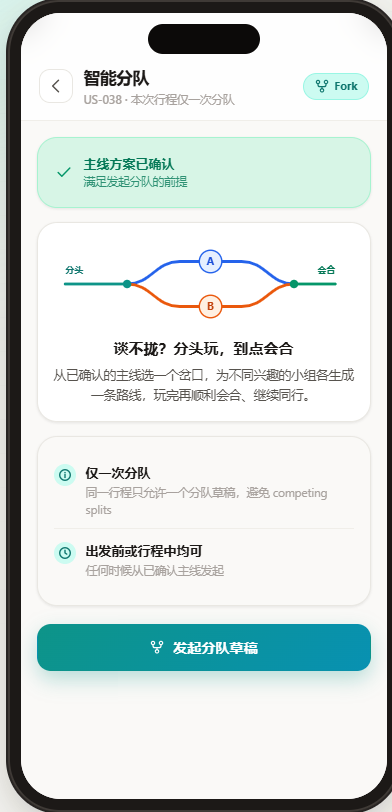
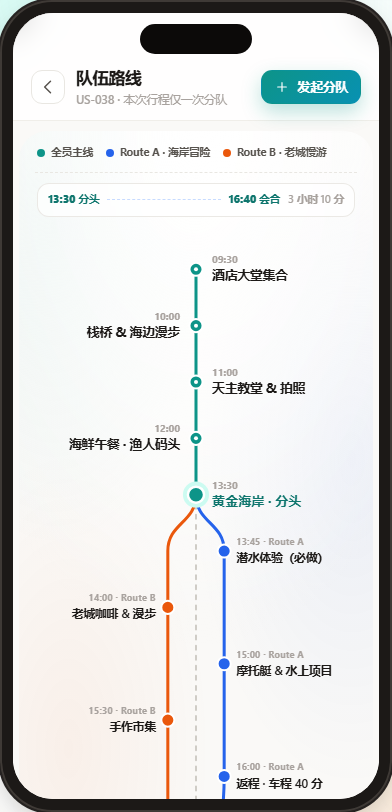
docs(ui): redesign split screen into team route graph

diff --git a/ui-design-reference/gogo-mvp-prototype.html b/ui-design-reference/gogo-mvp-prototype.html
@@ -215,6 +215,52 @@ body{font-family:var(--font);color:var(--ink);background:var(--bg);line-height:1
 .mini .mn{font-size:13px;font-weight:620}.mini .mm{font-size:11px;color:var(--ink-3);margin-top:1px}
 .mini.leg .mn{color:var(--ink-2);font-weight:560;font-style:italic}
 .route .rfoot{padding:10px 15px;border-top:1px solid var(--line-2);background:var(--surface-2);display:flex;align-items:center;gap:8px;font-size:11.5px;font-weight:600;color:var(--ink-2)}
+/* 队伍路线 · git 风格路线图 */
+.teamgraph{position:relative;z-index:0;padding:6px 8px 8px;margin:0 -2px}
+.teamgraph::before{content:"";position:absolute;inset:-6px -8px -14px;z-index:-1;pointer-events:none;border-radius:28px;background:
+  radial-gradient(110% 72% at 50% 0%,#fff 0%,rgba(255,255,255,.62) 40%,rgba(255,255,255,0) 74%),
+  radial-gradient(62% 46% at 10% 10%,rgba(13,148,136,.09),transparent 72%),
+  radial-gradient(62% 46% at 94% 34%,rgba(37,99,235,.07),transparent 74%),
+  radial-gradient(54% 42% at 14% 64%,rgba(234,88,12,.06),transparent 74%);
+  -webkit-mask-image:linear-gradient(180deg,#000 0%,#000 72%,transparent 100%);mask-image:linear-gradient(180deg,#000 0%,#000 72%,transparent 100%)}
+.tg-legend{display:flex;flex-wrap:wrap;gap:6px 13px;padding:2px 2px 11px;border-bottom:1px dashed var(--line)}
+.tg-legend span{display:inline-flex;align-items:center;gap:6px;font-size:10.5px;font-weight:650;color:var(--ink-2)}
+.tg-legend i{width:8px;height:8px;border-radius:50%;flex:none}
+.tg-split{margin:10px 2px 2px;padding:8px 10px;border:1px solid rgba(233,231,226,.9);border-radius:12px;background:rgba(255,255,255,.72);backdrop-filter:blur(3px);display:flex;align-items:center;gap:8px;font-size:10.5px;font-weight:650;color:var(--ink-2)}
+.tg-split .dotline{flex:1;border-top:1.5px dashed var(--a-line)}
+.tg-split b{color:var(--brand-ink)}
+.tg-split .dur{color:var(--ink-3);font-weight:600}
+.tg-svg{display:block;width:100%;height:auto;margin-top:4px}
+.rg-node{cursor:pointer;outline:none}
+.rg-node .rg-hit{fill:transparent;transition:.15s}
+.rg-node:hover .rg-hit,.rg-node:focus-visible .rg-hit{fill:rgba(13,148,136,.06)}
+.rg-node text{pointer-events:none;user-select:none}
+.rg-time{font-size:9.5px;font-weight:700;fill:var(--ink-3);letter-spacing:.2px;font-variant-numeric:tabular-nums}
+.rg-t{font-size:12.5px;font-weight:650;fill:var(--ink)}
+.rg-node.fork .rg-t,.rg-node.join .rg-t{font-size:13px;font-weight:750}
+.rg-node.lane-a .rg-t,.rg-node.lane-b .rg-t{font-size:11.5px;font-weight:620}
+.rg-node.lane-a .rg-time,.rg-node.lane-b .rg-time{font-size:9px}
+.rg-node.fork .rg-t{fill:var(--brand-ink)}
+.rg-node.join .rg-t{fill:#047857}
+.tg-hint{display:flex;align-items:center;gap:7px;margin:8px 2px 0;font-size:10.5px;color:var(--ink-3)}
+/* 节点详情弹层 */
+.sheet-mask{position:absolute;inset:0;z-index:90;display:none;align-items:flex-end;background:rgba(28,25,23,.42);backdrop-filter:blur(2px)}
+.sheet-mask.open{display:flex;animation:fadeIn .18s ease}
+@keyframes fadeIn{from{opacity:0}to{opacity:1}}
+.sheet{width:100%;max-height:84%;overflow-y:auto;background:var(--surface);border-radius:24px 24px 0 0;padding:6px 18px 24px;box-shadow:0 -18px 50px rgba(28,25,23,.24);animation:sheetUp .26s cubic-bezier(.22,.9,.28,1)}
+.sheet::-webkit-scrollbar{width:0}
+@keyframes sheetUp{from{transform:translateY(28px);opacity:.65}to{transform:none;opacity:1}}
+.sheet-grab{width:38px;height:4px;border-radius:99px;background:var(--line);margin:6px auto 14px}
+.sheet-head{display:flex;align-items:flex-start;gap:9px}
+.sheet-head h3{font-size:16px;font-weight:750;letter-spacing:-.2px;line-height:1.3}
+.sheet-head .rs-time{font-size:10.5px;font-weight:700;color:var(--ink-3);font-variant-numeric:tabular-nums;margin-bottom:3px}
+.sheet-head .iconbtn{width:30px;height:30px;border-radius:9px;margin-left:auto}
+.rs-badge{font-size:10.5px;font-weight:700;padding:4px 9px;border-radius:999px;flex:none;margin-top:1px;border:1px solid transparent}
+.rs-badge.all{background:var(--brand-soft);color:var(--brand-ink);border-color:#99f6e4}
+.rs-badge.a{background:var(--a-soft);color:#1d4ed8;border-color:var(--a-line)}
+.rs-badge.b{background:var(--b-soft);color:#c2410c;border-color:var(--b-line)}
+.rs-meta{display:flex;flex-wrap:wrap;gap:7px;margin-top:14px}
+.rs-meta .pill{font-weight:600}
 .seg{display:flex;background:var(--surface-3);border:1px solid var(--line);border-radius:12px;padding:3px;gap:3px}
 .seg button{flex:1;font-family:inherit;font-size:12.5px;font-weight:650;padding:8px 6px;border:0;background:transparent;color:var(--ink-2);border-radius:9px;cursor:pointer;transition:.16s}
 .seg button.on{background:var(--surface);color:var(--ink);box-shadow:var(--sh-1)}
@@ -887,40 +933,41 @@ body{font-family:var(--font);color:var(--ink);background:var(--bg);line-height:1
               <button class="btn btn-primary" style="flex:1.4" id="planConfirmBtn" disabled onclick="confirmPlan()"><svg class="ic sm"><use href="#i-lock"/></svg> 确认主线方案</button>
             </div>
           </section>
-          <!-- ========== 11 · 发起分队草稿 US-038 ========== -->
+          <!-- ========== 11 · 队伍路线 US-038 ========== -->
           <section class="screen" id="s11" data-screen="11">
             <div class="appbar"><div class="row">
               <button class="iconbtn" onclick="go(10)"><svg class="ic"><use href="#i-left"/></svg></button>
-              <div style="flex:1"><div class="title">智能分队</div><div class="sub">US-038 · 本次行程仅一次分队</div></div>
-              <span class="pill brand"><svg class="ic sm"><use href="#i-branch"/></svg> Fork</span>
+              <div style="flex:1"><div class="title">队伍路线</div><div class="sub">US-038 · 本次行程仅一次分队</div></div>
+              <button class="btn btn-primary sm" style="padding:8px 12px;font-size:12.5px" onclick="go(12)"><svg class="ic sm"><use href="#i-plus"/></svg> 发起分队</button>
             </div></div>
             <div class="body">
-              <div class="card pad" style="display:flex;align-items:center;gap:10px;border-color:#a7f3d0;background:var(--ok-soft)">
-                <svg class="ic" style="color:var(--ok)"><use href="#i-check"/></svg>
-                <div style="flex:1"><div style="font-size:13px;font-weight:700;color:#047857">主线方案已确认</div><div class="tiny" style="color:#047857;opacity:.8">满足发起分队的前提</div></div>
-              </div>
-              <div class="card pad" style="margin-top:14px;text-align:center">
-                <svg class="forkjoin" viewBox="0 0 320 96" style="max-width:300px;margin:0 auto">
-                  <path d="M12 48 H78" stroke="#0d9488" stroke-width="3" fill="none" stroke-linecap="round"/>
-                  <path d="M78 48 C104 48 108 24 134 24 L200 24 C226 24 230 48 256 48" stroke="#2563eb" stroke-width="3" fill="none" stroke-linecap="round"/>
-                  <path d="M78 48 C104 48 108 72 134 72 L200 72 C226 72 230 48 256 48" stroke="#ea580c" stroke-width="3" fill="none" stroke-linecap="round"/>
-                  <path d="M256 48 H300" stroke="#059669" stroke-width="3" fill="none" stroke-linecap="round"/>
-                  <circle cx="78" cy="48" r="4.5" fill="#0d9488"/><circle cx="256" cy="48" r="4.5" fill="#059669"/>
-                  <circle cx="167" cy="24" r="12" fill="#e6efff" stroke="#2563eb" stroke-width="1.5"/><text x="167" y="28" text-anchor="middle" font-size="12" font-weight="700" fill="#1d4ed8">A</text>
-                  <circle cx="167" cy="72" r="12" fill="#fff0e2" stroke="#ea580c" stroke-width="1.5"/><text x="167" y="76" text-anchor="middle" font-size="12" font-weight="700" fill="#c2410c">B</text>
-                  <text x="12" y="36" font-size="9.5" font-weight="700" fill="#0f766e">分头</text>
-                  <text x="300" y="36" text-anchor="end" font-size="9.5" font-weight="700" fill="#047857">会合</text>
-                </svg>
-                <div style="font-size:15px;font-weight:730;margin-top:8px">谈不拢？分头玩，到点会合</div>
-                <p class="hint" style="margin-top:6px">从已确认的主线选一个岔口，为不同兴趣的小组各生成一条路线，玩完再顺利会合、继续同行。</p>
-              </div>
-              <div class="card pad" style="margin-top:14px;background:var(--surface-2)">
-                <div class="valid">
-                  <div class="valid-item"><span class="valid-ic" style="background:var(--brand-soft);color:var(--brand-ink)"><svg class="ic"><use href="#i-info"/></svg></span><div><div class="vt">仅一次分队</div><div class="vd">同一行程只允许一个分队草稿，避免 competing splits</div></div></div>
-                  <div class="valid-item"><span class="valid-ic" style="background:var(--brand-soft);color:var(--brand-ink)"><svg class="ic"><use href="#i-clock"/></svg></span><div><div class="vt">出发前或行程中均可</div><div class="vd">任何时候从已确认主线发起</div></div></div>
+              <div class="teamgraph">
+                <div class="tg-legend">
+                  <span><i style="background:var(--brand)"></i>全员主线</span>
+                  <span><i style="background:var(--a)"></i>Route A · 海岸冒险</span>
+                  <span><i style="background:var(--b)"></i>Route B · 老城慢游</span>
                 </div>
+                <div class="tg-split">
+                  <b>13:30 分头</b><span class="dotline"></span><b>16:40 会合</b><span class="dur">3 小时 10 分</span>
+                </div>
+                <svg id="teamRouteSvg" class="tg-svg" viewBox="0 0 320 824" role="group" aria-label="队伍路线图"></svg>
+                <div class="tg-hint"><svg class="ic sm"><use href="#i-info"/></svg> 点击任意节点，查看该点需要完成的事项</div>
               </div>
-              <button class="btn btn-primary" style="margin-top:18px" onclick="go(12)"><svg class="ic sm"><use href="#i-branch"/></svg> 发起分队草稿</button>
+            </div>
+
+            <div class="sheet-mask" id="routeSheet" aria-hidden="true" onclick="if(event.target===this)closeRouteSheet()">
+              <div class="sheet" role="dialog" aria-modal="true" aria-labelledby="rsTitle">
+                <div class="sheet-grab"></div>
+                <div class="sheet-head">
+                  <span class="rs-badge all" id="rsBadge">全员</span>
+                  <div style="flex:1;min-width:0"><div class="rs-time" id="rsTime">09:30</div><h3 id="rsTitle">节点</h3></div>
+                  <button class="iconbtn" onclick="closeRouteSheet()" aria-label="关闭"><svg class="ic"><use href="#i-x"/></svg></button>
+                </div>
+                <div class="rs-meta" id="rsMeta"></div>
+                <div class="sec-title" style="margin:18px 0 4px"><svg class="ic sm"><use href="#i-list"/></svg> 需要做的事</div>
+                <div class="valid" id="rsTasks"></div>
+                <button class="btn btn-primary" style="margin-top:18px" onclick="closeRouteSheet()">知道了</button>
+              </div>
             </div>
           </section>
 
@@ -1305,7 +1352,7 @@ const NAV=[
   {n:9,t:'生成主线',d:'US-031'},
   {n:10,t:'审阅与确认',d:'US-037'},
   {g:'6 · 分队设置与分组'},
-  {n:11,t:'发起分队草稿',d:'US-038'},
+  {n:11,t:'队伍路线',d:'US-038'},
   {n:12,t:'选择边界',d:'US-039'},
   {n:13,t:'分组与路线',d:'US-042'},
   {n:14,t:'会合时间窗校验',d:'US-043'},
@@ -1343,6 +1390,7 @@ function buildNav(){
 }
 function go(n){
   n=Math.max(1,Math.min(25,n));
+  closeRouteSheet();
   if(!signedIn&&![5,6,19,20,22].includes(n)){pendingScreen=n;n=19;}
   if(n===4){invitationBackScreen=cur===3||cur===24?cur:1;$('invitationDemoBody').style.display=cur===24?'none':'';$('invitationNewBody').style.display=cur===24?'':'none';}
   if(n===3){$('tripMainTimeline').replaceChildren(document.querySelector('#s10 .timeline').cloneNode(true));}
@@ -1640,13 +1688,108 @@ function tick(){
   const b=$('cd17');if(b)b.textContent=`${pad(h)}:${pad(m)}`;
   const bar=$('cdBar');if(bar)bar.style.width=((WIN-remain)/WIN*100)+'%';
 }
+/* ---------- 队伍路线图（screen 11） ---------- */
+const ROUTE_NODES={
+  meet:{kind:'all',range:'09:30 – 10:00',title:'酒店大堂集合',place:'海景酒店 · 大堂',people:'全员 4 人',fee:'免费',tasks:['退房前核对证件、房卡与随身物品','在群聊里发送「已出发」','确认当天天气，带好防晒与外套']},
+  walk:{kind:'all',range:'10:00 – 11:00',title:'栈桥 & 海边漫步',place:'栈桥 · 海滨步道',people:'全员 4 人',fee:'免费',tasks:['沿栈桥走到回澜阁拍照','礁石湿滑，不要下水','11:00 前在栈桥入口集合']},
+  church:{kind:'all',range:'11:00 – 12:00',title:'天主教堂 & 拍照',place:'老城天主教堂',people:'全员 4 人',fee:'免费',tasks:['教堂外观与广场拍照','进入参观时保持安静','预留 10 分钟走到午餐点']},
+  lunch:{kind:'all',range:'12:00 – 13:20',title:'海鲜午餐 · 渔人码头',place:'渔人码头海鲜排档',people:'全员 4 人',fee:'人均 ¥88',tasks:['提前确认 4 人桌','点单控制在人均 ¥88 内','13:20 前结账，准备分头']},
+  fork:{kind:'all',range:'13:30 · 分头点',title:'黄金海岸 · 分头',place:'黄金海岸入口',people:'A 组 2 人 · B 组 2 人',fee:'—',tasks:['核对 A/B 分组名单（各 2 人）','确认 16:40 在海崖灯塔会合','两组分别开启路线导航']},
+  a1:{kind:'a',range:'13:45 – 15:00',title:'潜水体验（必做）',place:'黄金海岸潜水中心',people:'Route A · 2 人',fee:'¥200/人',tasks:['提前 15 分钟到潜水中心报到','带好泳衣、毛巾与换洗衣物','完成必做项后在群里打卡']},
+  b1:{kind:'b',range:'14:00 – 15:00',title:'老城咖啡 & 漫步',place:'大学路咖啡馆',people:'Route B · 2 人',fee:'人均 ¥35',tasks:['挑一家有座位的咖啡馆','沿大学路慢慢逛拍','控制预算，人均 ¥35 内']},
+  a2:{kind:'a',range:'15:00 – 16:00',title:'摩托艇 & 水上项目',place:'黄金海岸水上运动区',people:'Route A · 2 人',fee:'¥120/人',tasks:['全程穿好救生衣','两人一组轮流体验','16:00 前结束并归还装备']},
+  b2:{kind:'b',range:'15:30 – 16:10',title:'手作市集',place:'老城市集广场',people:'Route B · 2 人',fee:'按需消费',tasks:['逛手作摊位，挑一件小纪念品','16:10 前离开市集','在群里同步位置']},
+  a3:{kind:'a',range:'16:00 – 16:40',title:'返程 · 车程 40 分',place:'黄金海岸 → 海崖灯塔',people:'Route A · 2 人',fee:'约 ¥45/车',tasks:['16:00 准时上车出发','留意群里的会合位置','16:40 前抵达灯塔停车场']},
+  b3:{kind:'b',range:'16:10 – 16:40',title:'返程 · 车程 30 分',place:'老城 → 海崖灯塔',people:'Route B · 2 人',fee:'公交约 ¥2',tasks:['16:10 坐公交或打车出发','避开海边拥堵路段','16:40 前抵达灯塔']},
+  join:{kind:'all',range:'16:40 – 17:00',title:'海崖灯塔 · 会合',place:'海崖灯塔观景台',people:'全员 4 人',fee:'免费',tasks:['两组在灯塔观景台集合','核对 A/B 抵达时间，17:00 截止','休息补水，准备看日落']},
+  sunset:{kind:'all',range:'17:15 – 18:30',title:'灯塔看日落',place:'海崖灯塔 · 西侧观景位',people:'全员 4 人',fee:'免费',tasks:['提前占好西侧观景位','风大，记得加外套','拍一张全员合照']},
+  dinner:{kind:'all',range:'19:00 – 20:30',title:'沙滩晚餐 & 篝火',place:'金沙滩 · 篝火区',people:'全员 4 人',fee:'人均 ¥60',tasks:['确认篝火位与 4 人餐','注意用火安全，离开前熄灭火种','结束 Day 1，回酒店休息']}
+};
+const ROUTE_GRAPH_ROWS=[
+  {id:'meet',lane:'m',time:'09:30',title:'酒店大堂集合'},
+  {id:'walk',lane:'m',time:'10:00',title:'栈桥 & 海边漫步'},
+  {id:'church',lane:'m',time:'11:00',title:'天主教堂 & 拍照'},
+  {id:'lunch',lane:'m',time:'12:00',title:'海鲜午餐 · 渔人码头'},
+  {id:'fork',lane:'m',kind:'fork',time:'13:30',title:'黄金海岸 · 分头'},
+  {id:'a1',lane:'a',time:'13:45',title:'潜水体验（必做）'},
+  {id:'b1',lane:'b',time:'14:00',title:'老城咖啡 & 漫步'},
+  {id:'a2',lane:'a',time:'15:00',title:'摩托艇 & 水上项目'},
+  {id:'b2',lane:'b',time:'15:30',title:'手作市集'},
+  {id:'a3',lane:'a',time:'16:00',title:'返程 · 车程 40 分'},
+  {id:'b3',lane:'b',time:'16:10',title:'返程 · 车程 30 分'},
+  {id:'join',lane:'m',kind:'join',time:'16:40',title:'海崖灯塔 · 会合'},
+  {id:'sunset',lane:'m',time:'17:15',title:'灯塔看日落'},
+  {id:'dinner',lane:'m',time:'19:00',title:'沙滩晚餐 & 篝火'}
+];
+const ROUTE_LANE_X={b:132,m:160,a:188};
+function renderTeamRoute(){
+  const svg=$('teamRouteSvg');if(!svg)return;
+  const ROW=56,PAD=20,rows=ROUTE_GRAPH_ROWS,X=ROUTE_LANE_X;
+  const cy=i=>PAD+ROW*i+ROW/2;
+  const forkI=rows.findIndex(r=>r.kind==='fork');
+  const joinI=rows.findIndex(r=>r.kind==='join');
+  const lastA=rows.reduce((acc,r,i)=>r.lane==='a'?i:acc,forkI);
+  const lastB=rows.reduce((acc,r,i)=>r.lane==='b'?i:acc,forkI);
+  const yf=cy(forkI),yj=cy(joinI),yFirst=cy(forkI+1),BEND=28;
+  const line=(d,color,dash)=>`<path d="${d}" stroke="${color}" stroke-width="${dash?2:3}" fill="none" stroke-linecap="round"${dash?` stroke-dasharray="${dash}"`:''}/>`;
+  let g='';
+  // 主线：分头前实线 → 分头段淡虚线（主线暂停）→ 会合后实线
+  g+=line(`M${X.m} ${cy(0)} V${yf}`,'#0d9488');
+  g+=line(`M${X.m} ${yf} V${yj}`,'#cfccc6','4 6');
+  g+=line(`M${X.m} ${yj} V${cy(rows.length-1)}`,'#0d9488');
+  // Route A（右）与 Route B（左）：垂直切线岔出、汇回
+  g+=line(`M${X.m} ${yf} C${X.m} ${yf+BEND} ${X.a} ${yFirst-BEND} ${X.a} ${yFirst} V${cy(lastA)} C${X.a} ${yj-BEND} ${X.m} ${yj-BEND} ${X.m} ${yj}`,'#2563eb');
+  g+=line(`M${X.m} ${yf} C${X.m} ${yf+BEND} ${X.b} ${yFirst-BEND} ${X.b} ${yFirst} V${cy(lastB)} C${X.b} ${yj-BEND} ${X.m} ${yj-BEND} ${X.m} ${yj}`,'#ea580c');
+  rows.forEach((r,i)=>{
+    const y=cy(i),x=X[r.lane],branch=r.lane!=='m',isMain=!branch;
+    const color=r.lane==='a'?'#2563eb':r.lane==='b'?'#ea580c':'#0d9488';
+    // 主线文字左右交替；左分支靠左、右分支靠右
+    const toRight=isMain?i%2===0:r.lane==='a';
+    const tx=isMain?(toRight?X.m+16:X.m-16):(toRight?X.a+12:X.b-12);
+    const anchor=toRight?'start':'end';
+    let node;
+    if(r.kind==='fork')node=`<circle cx="${x}" cy="${y}" r="13" fill="#ccfbf1"/><circle cx="${x}" cy="${y}" r="8" fill="#0d9488" stroke="#fff" stroke-width="2.5"/>`;
+    else if(r.kind==='join')node=`<circle cx="${x}" cy="${y}" r="13" fill="#d7f5e6"/><circle cx="${x}" cy="${y}" r="8" fill="#059669" stroke="#fff" stroke-width="2.5"/>`;
+    else if(branch)node=`<circle cx="${x}" cy="${y}" r="6.5" fill="${color}" stroke="#fff" stroke-width="2"/>`;
+    else if(i<forkI)node=`<circle cx="${x}" cy="${y}" r="6.5" fill="#0d9488" stroke="#fff" stroke-width="2"/><circle cx="${x}" cy="${y}" r="2" fill="#fff"/>`;
+    else node=`<circle cx="${x}" cy="${y}" r="6.5" fill="#fff" stroke="#0d9488" stroke-width="2.5"/>`;
+    const meta=branch?`${r.time} · Route ${r.lane.toUpperCase()}`:r.time;
+    const cls=['rg-node',r.kind||'',branch?'lane-'+r.lane:'',toRight?'side-r':'side-l'].filter(Boolean).join(' ');
+    g+=`<g class="${cls}" role="button" tabindex="0" aria-label="${r.time} ${r.title}" onclick="openRouteNode('${r.id}')" onkeydown="if(event.key==='Enter'||event.key===' '){event.preventDefault();openRouteNode('${r.id}')}">
+      <rect class="rg-hit" x="2" y="${y-26}" width="316" height="52" rx="10"/>
+      ${node}
+      <text class="rg-time" x="${tx}" y="${y-6}" text-anchor="${anchor}">${meta}</text>
+      <text class="rg-t" x="${tx}" y="${y+11}" text-anchor="${anchor}">${esc(r.title)}</text>
+    </g>`;
+  });
+  svg.setAttribute('viewBox',`0 0 320 ${PAD*2+ROW*rows.length}`);
+  svg.innerHTML=g;
+}
+function openRouteNode(id){
+  const d=ROUTE_NODES[id],mask=$('routeSheet');if(!d||!mask)return;
+  const badge=$('rsBadge');
+  badge.textContent=d.kind==='a'?'Route A':d.kind==='b'?'Route B':'全员';
+  badge.className='rs-badge '+(d.kind||'all');
+  $('rsTime').textContent=d.range;
+  $('rsTitle').textContent=d.title;
+  $('rsMeta').innerHTML=[['i-pin',d.place],['i-users',d.people],['i-wallet',d.fee]].map(([ic,txt])=>`<span class="pill"><svg class="ic sm" style="width:13px;height:13px"><use href="#${ic}"/></svg>${esc(txt)}</span>`).join('');
+  $('rsTasks').innerHTML=d.tasks.map((t,i)=>`<div class="valid-item"><span class="valid-ic" style="background:var(--surface-3);color:var(--ink-2);font-size:11px;font-weight:700">${i+1}</span><div><div class="vt" style="font-weight:600">${esc(t)}</div></div></div>`).join('');
+  mask.classList.add('open');
+  mask.setAttribute('aria-hidden','false');
+}
+function closeRouteSheet(){
+  const mask=$('routeSheet');if(!mask)return;
+  mask.classList.remove('open');
+  mask.setAttribute('aria-hidden','true');
+}
 /* ---------- 初始化 ---------- */
 function init(){
-  buildNav();buildQR();bindBoundary();bindGroups();
+  buildNav();buildQR();bindBoundary();bindGroups();renderTeamRoute();
   $('interestChips').addEventListener('click',e=>{const c=e.target.closest('.chip');if(c)c.classList.toggle('on');});
   $('limitSeg').addEventListener('click',e=>{const b=e.target.closest('button');if(!b)return;$('limitSeg').querySelectorAll('button').forEach(x=>x.classList.remove('on'));b.classList.add('on');});
   document.addEventListener('keydown',e=>{
     if(e.target.tagName==='INPUT'||e.target.tagName==='TEXTAREA'||e.target.tagName==='SELECT')return;
+    if(e.key==='Escape'){closeRouteSheet();return;}
     if(e.key==='ArrowRight')go(cur+1);else if(e.key==='ArrowLeft')go(cur-1);
     else if(/^[1-9]$/.test(e.key))go(+e.key);
   });

diff --git a/ui-design-reference/README.md b/ui-design-reference/README.md
@@ -176,14 +176,14 @@
 - **状态与交互**：进入即跑 `validatePlan()`，三条校验依次 pass 后确认按钮才解禁；`confirmPlan()` 把状态 pill 变绿「已确认」+ toast，跳节点 11。
 - **规则体现**：US-037「校验通过才能确认、不确认过期草稿」——确认按钮的禁用 / 解禁就是门控的可视化。
 
-### 节点 11 · 发起分队草稿（US-038）
+### 节点 11 · 队伍路线（US-038）
 
-![发起分队](screenshots/screen-11-split-start.png)
+![队伍路线](screenshots/screen-11-split-start.png)
 
-- **干什么**：从已确认主线发起本次行程唯一的一次分队。
-- **布局与组件**：前提卡（绿「主线方案已确认」）；居中 `forkjoin` SVG 示意图：青绿主线→分叉出蓝 A / 橙 B→绿色会合，配文案「谈不拢？分头玩，到点会合」；规则卡两条（「仅一次分队，避免 competing splits」「出发前或行程中均可」）；主按钮「发起分队草稿」。
-- **状态与交互**：发起→节点 12；返回→节点 10。
-- **规则体现**：US-038「单次、从已确认主线、出发前或行程中」用前提卡 + 规则卡明示；fork-join 图让「分头再会合」一眼可懂。
+- **干什么**：用一张 git 风格的路线图展示全队从主线分头、A/B 并行到重新会合的完整线路；右上角「发起分队」进入分队设置。
+- **布局与组件**：顶栏标题「队伍路线」+ 右上主按钮「发起分队」；`teamgraph` 区域不套卡片容器，直接铺在页面底上：图例（全员主线 / Route A 海岸冒险 / Route B 老城慢游）+ 分头–会合时间条 + `#teamRouteSvg` 路线图（14 个节点，蓝 A 在右、橙 B 在左，两条分叉线收拢在主线两侧；主线文字左右交替，分叉文字各靠外，分头段主线淡虚线表示暂停）。点击任意节点弹出 bottom sheet：路线徽章、时间、地点 / 同行 / 费用 pill、编号任务清单。
+- **状态与交互**：`renderTeamRoute()` 生成 SVG 节点；节点点击 `openRouteNode()` 填充并打开 `#routeSheet`，点遮罩 / 关闭按钮 / `Esc` 收起；右上按钮 → 节点 12；返回 → 节点 10。
+- **规则体现**：US-038「单次、从已确认主线、出发前或行程中」由副标题「本次行程仅一次分队」与右上唯一入口体现；git 图把「分头 → 并行 → 会合」结构直接可视化，每个节点可点开查看该点要做的事。
 
 ### 节点 12 · 选择分队边界（US-039）
 
